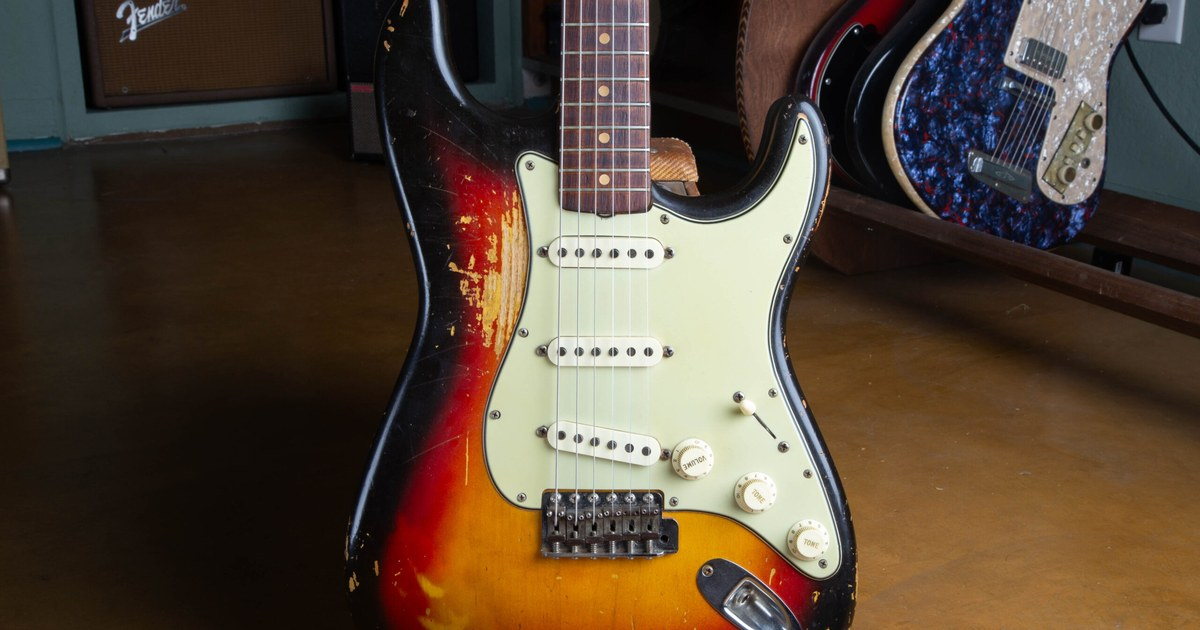
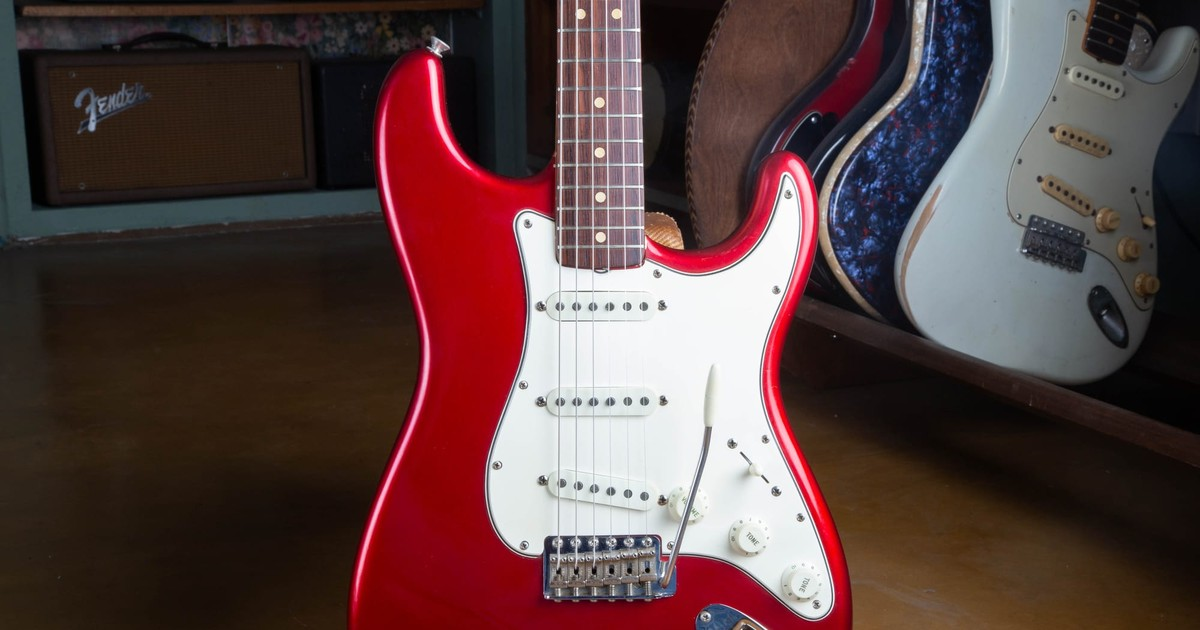
Swap companion photos to 1965 CAR Strat and 1966 LPB Jazzmaster

diff --git a/src/content/blog/what-a-serial-number-cant-tell-you.md b/src/content/blog/what-a-serial-number-cant-tell-you.md
@@ -1,14 +1,14 @@
 ---
 title: "What A Serial Number Can't Tell You: How A Dealer Actually Checks A Vintage Guitar"
 pubDate: "2026-08-26T12:00:00"
-modified: "2026-08-26T19:15:00"
-excerpt: "This Strat's L-series plate only gets you a window. The heel stamp and the pots close the year. None of that tells me whether the nitro is original. I check the guitar, then I treat the serial as a claim."
+modified: "2026-08-26T22:00:00"
+excerpt: "This 1965 Candy Apple Red Strat's serial only gets you a window. The silver under the red and the checking off the neck plate are the guitar. A 1966 Lake Placid Blue Jazzmaster shows the same gap on an offset. I check the film, then I treat the serial as a claim."
 category: "value-evaluation"
 categoryName: "Value & Evaluation"
 tags: []
-heroImage: "/images/blog/what-a-serial-number-cant-tell-you/1963-fender-stratocaster-sunburst-front.jpg"
-heroImageAlt: "1963 Fender Stratocaster in sunburst, with player wear through the finish on the horns and edges."
-metaDescription: "A serial dates the claim on a vintage guitar. Heel stamps, pot codes, solder, and wear have to agree. Here's the bench check I run, plus a free photo appraisal."
+heroImage: "/images/blog/what-a-serial-number-cant-tell-you/1965-fender-stratocaster-candy-apple-red-front.jpg"
+heroImageAlt: "1965 Fender Stratocaster in Candy Apple Red Metallic with a white three-ply pickguard, standing in a shop in front of a blackface Fender amp and other vintage Fenders."
+metaDescription: "A Fender serial dates the claim, not the nitro. On this 1965 Candy Apple Red Strat the silver undercoat and pocket do the work. Plus a free photo appraisal."
 ogImage: "/images/blog/what-a-serial-number-cant-tell-you/what-a-serial-number-cant-tell-you-og.jpg"
 author: "Joe Dampt"
 draft: false
@@ -29,7 +29,7 @@ toc:
 ---
 <style>.blog-prose figure p{margin:0}</style>
 
-This Strat wears L17163 on the neck plate. That L only gets you late 1962 into early 1965. The heel is stamped 2 NOV 63 B, and the Stackpole pots are 6347, week 47 of 1963. I called it a '63 from those two, not from the plate. The serial still doesn't tell me whether the nitro on those horns is the nitro that left Fullerton. The longer argument is in my [Vintage Verified essay](https://www.vintageverified.com/joes-vintage).
+This Strat is Candy Apple Red, a 1965. A Fender serial from that stretch only gets you a range (late L-series into the early F plates, VG-0050). I don't have this guitar's plate, heel stamp, or pot codes on this page. What I do have is the film: chips on the horn break to silver, checking runs off the neck plate, and the pocket still shows the paint-stick yellow. That is the guitar. The serial, when you have it, is a claim those facts have to survive. The longer argument is in my [Vintage Verified essay](https://www.vintageverified.com/joes-vintage).
 
 <nav class="post-toc-inline" aria-label="Table of contents">
 
@@ -47,13 +47,13 @@ This Strat wears L17163 on the neck plate. That L only gets you late 1962 into e
 
 A serial number is a factory tracking mark. On a good day it points at a year range.
 
-This Strat's plate is the Fender version of that. Before the mid-1970s, Fender mixed stockpiled parts, so the number only narrows the window. The heel stamp and the pot codes are tighter, and even those date the part. I wrote the lookup in the [Fender serial number guide](/fender-guitars-serial-number-guide/).
+Before the mid-1970s, Fender mixed stockpiled parts, so the number only narrows the window. Heel stamps and pot codes date the part. I wrote the lookup in the [Fender serial number guide](/fender-guitars-serial-number-guide/).
 
 <figure>
 
-![L-series neck plate serial L17163 on a 1963 Fender Stratocaster](../../assets/blog/what-a-serial-number-cant-tell-you/1963-fender-stratocaster-neck-plate.jpg)
+![Extreme close-up of Candy Apple Red finish beside the neck plate of a 1965 Fender Stratocaster, showing fine vertical lacquer checking.](../../assets/blog/what-a-serial-number-cant-tell-you/1965-fender-stratocaster-candy-apple-red-checking.jpg)
 
-<figcaption>L17163 on this Strat's four-bolt plate. The L prefix runs late 1962 into early 1965. I needed the heel and the pots to call it 1963.</figcaption>
+<figcaption>Checking running off the neck plate on this 1965 Candy Apple Red Strat. The plate is a tracking mark. The film is what I trust.</figcaption>
 
 </figure>
 
@@ -79,7 +79,7 @@ Listings use "all original" like a switch. On a guitar that's been played sixty 
 
 **Untouched electronics.** The solder, the cloth or braid, the pots, and the pickup leads still sitting where a factory iron left them. A pickup can be swapped in half an hour. The trip leaves tracks at the pots, the switch, and the cavity.
 
-This Strat can be original nitro with later tuners. It can be original pickups with a refin. Write what it actually is. Don't flatten that into "all original" because L17163 decoded.
+This Strat can be original nitro with later tuners. It can be original pickups with a refin. On this Candy Apple Red Strat I can show the silver under the red and a factory-looking pocket. Write what it actually is. Don't flatten that into "all original" because a 1965 serial decoded.
 
 The original hard-shell case (OHSC in listings) is a nice extra. I've seen original cases on refinished guitars.
 
@@ -89,29 +89,51 @@ This is the order I run when a guitar is in front of me. Eyes first, screwdriver
 
 <h3 id="finish-and-wear">Finish And Wear</h3>
 
-I look at the film before I trust the number. Nitrocellulose was the standard on most vintage Fender and Gibson electrics in the 1950s and 1960s. It checks as it ages. On this Strat the wear is on the horns and the edges, where an arm and a belt actually land. Wear that's even all the way around, or copied onto edges that never see a shirt, is a question.
+I look at the film before I trust the number. Nitrocellulose was the standard on most vintage Fender and Gibson electrics in the 1950s and 1960s. It checks as it ages. On this 1965 Candy Apple Red Strat the wear is at the horn chip and in the checking that runs off the neck plate.
+
+Candy Apple Red from 1963 into 1965 sat on a metallic silver base, typically Inca Silver, under translucent red. Chips on this 1965 break to bright silver. After the 1965 CBS transition through 1973 the base shifts to gold. This guitar is a 1965 and chips to silver, which matches the silver-base recipe that ran 1963 into 1965.
+
+<figure>
+
+![Close-up of chips on the back of the upper horn of a 1965 Fender Stratocaster in Candy Apple Red, with small chips in the red revealing a bright silver metallic undercoat beneath.](../../assets/blog/what-a-serial-number-cant-tell-you/1965-fender-stratocaster-candy-apple-red-chip-silver-undercoat.jpg)
+
+<figcaption>Chips on the horn of this 1965 Candy Apple Red Strat break to bright silver, the silver-base recipe that ran 1963 into 1965.</figcaption>
+
+</figure>
+
+Lake Placid Blue was a 1958 Cadillac color, on the Fender chart from 1960 to 1973. The full color chart and factory tells live on the [custom color guide](/post/fender-custom-color-authentication-guide/).
+
+<figure>
+
+![Front of a 1966 Fender Jazzmaster in Lake Placid Blue with a white pickguard, photographed in a vintage guitar shop with a blue sparkle guitar visible behind it.](../../assets/blog/what-a-serial-number-cant-tell-you/1966-fender-jazzmaster-lake-placid-blue-front.jpg)
+
+<figcaption>A 1966 Jazzmaster in Lake Placid Blue with a white pickguard.</figcaption>
+
+</figure>
+
+White undercoat sat under most sixties custom colors.
+
+<figure>
+
+![Extreme close-up of a pickguard screw hole on a 1966 Fender Jazzmaster in Lake Placid Blue next to a bridge post thimble, with the chipped edge of the screw hole revealing a bright white undercoat beneath the blue.](../../assets/blog/what-a-serial-number-cant-tell-you/1966-fender-jazzmaster-lake-placid-blue-pickguard-screw-hole-chip-white-undercoat.jpg)
+
+<figcaption>A pickguard screw hole on this 1966 Lake Placid Blue Jazzmaster. The chipped rim breaks to white, the standard undercoat under sixties Lake Placid Blue.</figcaption>
+
+</figure>
 
 Relic'ing is the intentional aging of a new guitar: worn finish, lacquer checking, tarnished hardware, dents. A relic is distressed on purpose. A convincing one still has to survive pot codes, neck dates, and cavity paint.
 
 Under UV blacklight, aged original nitro usually glows greenish or yellowish, so touch-ups and overspray can show as dark or contrasting patches. I use it as a screen. The downside is real: old refinishes can hide, poly and a lot of later paints glow inconsistently, and fresh nitro hasn't aged enough to glow yet. I wouldn't call a finish original from a blacklight photo alone.
 
-On a Fender custom color, the factory tells (nail holes, paint-stick shadow, Fullerplast, the blacklight procedure) live on the [custom color authentication guide](/post/fender-custom-color-authentication-guide/). If the money is in the color, read that guide, then send photos.
+If the money is in the color, read the custom color guide, then send photos.
 
 <h3 id="hardware-footprints-and-extra-holes">Hardware Footprints And Extra Holes</h3>
 
 Hardware leaves a footprint. Extra screw holes around the tuners, a neck plate that doesn't sit in old lacquer witness lines, a bridge post that's been opened up, a pickguard with a later screw pattern: those are records of work.
 
-On a 1962 Gibson ES-335 I appraised in person, I checked that the single-line, double-ring Kluson tuners were original, with no added or enlarged holes. I don't have a clean extra-hole photo for this page, so you're looking at a pass on this Strat instead.
+On a 1962 Gibson ES-335 I appraised in person, I checked that the single-line, double-ring Kluson tuners were original, with no added or enlarged holes. I don't have a clean extra-hole photo for this page, so that check is copy only.
 
-<figure>
-
-![Single-line Kluson Deluxe tuners on the back of a 1963 Fender Stratocaster headstock](../../assets/blog/what-a-serial-number-cant-tell-you/1963-fender-stratocaster-back-of-headstock.jpg)
-
-<figcaption>Single-line Kluson Deluxe tuners on this 1963 Strat, in the original holes. Extra holes behind modern tuners usually mean someone converted from Klusons, or converted back.</figcaption>
-
-</figure>
-
-I'd still open the cavity before I called the guitar original. Period tuners are period tuners.
+Tuners come off with four screws. A period stamp dates the tuners. It only helps when it agrees with the headstock, the finish, the pots, and the serial. I'd still open the cavity before I called the guitar original. Period tuners are period tuners.
 
 <h3 id="cavities-routes-and-pot-codes">Cavities, Routes, And Pot Codes</h3>
 
@@ -123,17 +145,19 @@ A pot date tells you the earliest the guitar could have been built. Factories bo
 
 <figure>
 
-![Control cavity of a 1963 Fender Stratocaster with pickguard flipped, cloth wire, and three pots](../../assets/blog/what-a-serial-number-cant-tell-you/1963-fender-stratocaster-electronics.jpg)
+![Top of a 1965 Fender Stratocaster body in Candy Apple Red with the pickguard removed and the loaded guard folded to the side, showing full red coverage in the pickguard footprint, dusty overspray in the pickup routes, and yellow showing through in the neck pocket.](../../assets/blog/what-a-serial-number-cant-tell-you/1965-fender-stratocaster-candy-apple-red-under-pickguard.jpg)
 
-<figcaption>Pickguard flipped on this 1963 Strat. Cloth wire, three 250k pots, and the codes on the back of the cans.</figcaption>
+<figcaption>Guard off this 1965 Candy Apple Red Strat. Color coats cover the face, get thin and dusty in the routes, and the neck pocket goes yellow where the paint stick sat.</figcaption>
 
 </figure>
 
+I have the cavity in the photo. I don't have a readable EIA stamp from this guitar on this page.
+
 <figure>
 
-![Stackpole 304 6347 pot code on a 1963 Fender Stratocaster](../../assets/blog/what-a-serial-number-cant-tell-you/1963-fender-stratocaster-potentiometer-code.jpg)
+![Close-up of the neck pocket area of a 1965 Fender Stratocaster in Candy Apple Red, showing the yellow-sealed pocket floor with red overspray feathering across it and heavy dust and shadow at the pocket edge.](../../assets/blog/what-a-serial-number-cant-tell-you/1965-fender-stratocaster-candy-apple-red-neck-pocket-shadow.jpg)
 
-<figcaption>Stackpole code 304 6347 on this guitar. 304 is Stackpole. 6347 is 1963, week 47. That dates this pot. The heel stamp is how the year held.</figcaption>
+<figcaption>Neck pocket of the same 1965 Candy Apple Red Strat. Yellow-sealed floor, red overspray feathering across it, dust at the edge.</figcaption>
 
 </figure>
 
@@ -151,7 +175,15 @@ The joint in the photo is dull grey, with old amber flux crazed around it. That'
 
 </figure>
 
-On Fender, those joints are one of the checks I use when a custom color is on the table. On a 1966 Jaguar in Lake Placid Blue, I asked for electronics photos so I could read the solder next to the paint-stick mark in the neck pocket. The solder didn't close the guitar. It was one more check that the harness hadn't been pulled for a refin.
+On Fender, I read solder when a custom color is on the table so I know the harness wasn't pulled for a refin. On this 1966 Lake Placid Blue Jazzmaster, the pocket is the color check: paint-stick yellow stripe, JM in marker, original red-brown fiber shim. I don't have a solder close-up from this Jazzmaster on this page. The pocket is what I can show.
+
+<figure>
+
+![Neck pocket of a 1966 Fender Jazzmaster in Lake Placid Blue with the neck removed, showing a masked yellow stripe down the center of the pocket with JM written in black marker, blue overspray on either side, bubbly finish texture at the pocket edge, and a rust-red fiberboard factory shim at the end of the pocket.](../../assets/blog/what-a-serial-number-cant-tell-you/1966-fender-jazzmaster-lake-placid-blue-neck-pocket-shadow.jpg)
+
+<figcaption>Neck pocket of the 1966 Lake Placid Blue Jazzmaster. Paint-stick yellow down the center, JM in marker, blue overspray at the edges, original fiber shim at the end of the pocket.</figcaption>
+
+</figure>
 
 On a Gibson PAF-era guitar, factory cover solder is grey. Fresh solder anywhere in the signal path raises the burden of proof on the pickups. The [PAF and patent-number pickup guide](/post/gibson-paf-patent-number-pickup-guide/) is the spoke for that. Charlie from es-335.com has written for years that original solder got turned into a stand-in for "the pickups never came out," and that a carefully redone ground can be hard to call. I agree with the caution. ([Take Off A Buck](https://www.es-335.com/2015/10/26/take-off-a-buck/), es-335.com.)
 
@@ -171,17 +203,9 @@ A swapped pickup leaves tracks at the rings, the height screws, the cavity, and 
 
 <h3 id="cross-dating-every-date-has-to-agree">Cross-Dating: Every Date Has To Agree</h3>
 
-On this Strat the plate, the heel, and the pots agree on 1963. That's the job. If they'd disagreed, I wouldn't average them. I'd ask which part moved.
-
 On a Fender, the [neck date](/fender-neck-dates/) is a production mark on the heel of the bolt-on neck, under the truss-rod nut. Fender marked them from the earliest solidbodies until about 1976, penciled until March 1962. The neck date dates the neck. It can differ from the body date by weeks or months on a perfectly original guitar, because Fender pulled finished necks from a bin. A neck dated well after the rest of the guitar is the usual red flag for a swap. A neck a year older than the body is often leftover stock.
 
-<figure>
-
-![Black ink neck heel stamp 2NOV63 B on a 1963 Fender Stratocaster](../../assets/blog/what-a-serial-number-cant-tell-you/1963-fender-stratocaster-neck-heel-stamp.jpg)
-
-<figcaption>Heel stamp 2 NOV 63 B on the same Strat as the L-series plate and the Stackpole pots. The 2 is Stratocaster. NOV 63 is the neck. B is the nut width.</figcaption>
-
-</figure>
+From spring 1962 onward a Jazzmaster heel is a rubber stamp like 4JAN63B, where 4 is the Jazzmaster model code. I don't have the heel of this Candy Apple Red Strat or this Jazzmaster on this page. On the Jazzmaster, the body side of that match is the pocket already shown.
 
 On a Gibson from 1961 to 1969, you already know the serial won't pin a single year. The pots, the pickup type, the tuner stamp (no-line, single-line, double-line), the logo, and the presence or absence of a volute have to close the range. I don't date any Gibson from the serial alone, in any era. Numbers get re-stamped, refinished over, or faked.
 
@@ -213,11 +237,11 @@ This is an estimate of market value, not an offer to buy and not a promise. Mark
 
 <h3 id="can-a-guitar-serial-number-be-faked">Can A Guitar Serial Number Be Faked?</h3>
 
-Yes. Numbers get re-stamped, and neck plates get swapped. This Strat's L17163 looks like a real L-series stamp. I believe the year because the heel and the pots agree with it. If the serial and the features disagree, trust the features and get a hands-on read before you pay vintage money.
+Yes. Numbers get re-stamped, and neck plates get swapped. I believe a year when the heel, the pots, and the film agree with the plate. This Candy Apple Red Strat is the film half of that job.
 
 <h3 id="if-the-serial-number-checks-out-is-the-guitar-original">If The Serial Number Checks Out, Is The Guitar Original?</h3>
 
-The serial on this Strat only gave me a window. Originality is finish, parts, solder, pots, pickups, and whether those dates agree. Fender serials before the mid-1970s and Gibson serials from 1961 to 1969 often can't even pin a single year. A clean decode is where I start.
+A serial that decodes is a tracking mark that survived. Originality is whether the film and the parts still belong to that year. I treat a clean plate as a claim to test.
 
 <h3 id="what-does-all-original-mean-on-a-vintage-guitar">What Does All Original Mean On A Vintage Guitar?</h3>
 
@@ -249,7 +273,7 @@ The joint in the photo on this page is dull grey, with old flux around it. Later
 
 <h3 id="what-if-the-pot-codes-do-not-match-the-serial">What If The Pot Codes Do Not Match The Serial?</h3>
 
-A pot code dates the pot. It's the earliest the guitar could have been built, not the build day. This Strat's 6347 agrees with the NOV 63 heel. Pots a few months older than the serial are normal. One pot years later than the others usually means a replacement. If the latest original pot is newer than the year the serial claims, the serial claim is wrong or the pot isn't original. Read all of them.
+A pot code dates the pot. It's the earliest the guitar could have been built, not the build day. Pots a few months older than the serial are normal. One pot years later than the others usually means a replacement. I don't have a readable EIA stamp from this Candy Apple Red Strat on this page. Read every can you can see.
 
 <h3 id="what-if-the-neck-date-and-the-body-date-do-not-match">What If The Neck Date And The Body Date Do Not Match?</h3>
 
@@ -261,7 +285,7 @@ A certificate is paperwork. It's only as strong as the inspection behind it and 
 
 <h2 id="send-me-photos-and-i-will-read-the-guitar">Send Me Photos And I Will Read The Guitar</h2>
 
-If you want the short version on your guitar, send photos. Front, back, headstock, and anything inside you can shoot without forcing screws: pots, solder, neck heel if the neck is already off. I'll date it, tell you what the parts are doing, and give you a current market read. Use the [free appraisal form](/free-appraisal/), or text me at (602) 900-6635.
+If you want the short version on your guitar, send photos. Front, back, headstock, and anything inside you can shoot without forcing screws: pots, solder, neck heel if the neck is already off. I'll date it, say what the parts are doing, and give you a current market read. Use the [free appraisal form](/free-appraisal/), or text me at (602) 900-6635.
 
 I'm Joe Dampt. I buy, sell, and appraise vintage instruments in Mesa, Arizona. I've been doing this full-time for more than twelve years. The serial guide is where the year starts. This page is what I do after that. If you want the market argument for third-party lab work, that's the [Vintage Verified essay](https://www.vintageverified.com/joes-vintage). If you want me to look at the guitar in the case, that's the appraisal form.
 
@@ -285,7 +309,7 @@ Who I am and how I work is on the [about page](/about-me/).
       "name": "Can A Guitar Serial Number Be Faked?",
       "acceptedAnswer": {
         "@type": "Answer",
-        "text": "Yes. Numbers get re-stamped, and neck plates get swapped. This Strat's L17163 looks like a real L-series stamp. I believe the year because the heel and the pots agree with it. If the serial and the features disagree, trust the features and get a hands-on read before you pay vintage money."
+        "text": "Yes. Numbers get re-stamped, and neck plates get swapped. I believe a year when the heel, the pots, and the film agree with the plate. This Candy Apple Red Strat is the film half of that job."
       }
     },
     {
@@ -293,7 +317,7 @@ Who I am and how I work is on the [about page](/about-me/).
       "name": "If The Serial Number Checks Out, Is The Guitar Original?",
       "acceptedAnswer": {
         "@type": "Answer",
-        "text": "The serial on this Strat only gave me a window. Originality is finish, parts, solder, pots, pickups, and whether those dates agree. Fender serials before the mid-1970s and Gibson serials from 1961 to 1969 often can't even pin a single year. A clean decode is where I start."
+        "text": "A serial that decodes is a tracking mark that survived. Originality is whether the film and the parts still belong to that year. I treat a clean plate as a claim to test."
       }
     },
     {
@@ -357,7 +381,7 @@ Who I am and how I work is on the [about page](/about-me/).
       "name": "What If The Pot Codes Do Not Match The Serial?",
       "acceptedAnswer": {
         "@type": "Answer",
-        "text": "A pot code dates the pot. It's the earliest the guitar could have been built, not the build day. This Strat's 6347 agrees with the NOV 63 heel. Pots a few months older than the serial are normal. One pot years later than the others usually means a replacement. If the latest original pot is newer than the year the serial claims, the serial claim is wrong or the pot isn't original. Read all of them."
+        "text": "A pot code dates the pot. It's the earliest the guitar could have been built, not the build day. Pots a few months older than the serial are normal. One pot years later than the others usually means a replacement. I don't have a readable EIA stamp from this Candy Apple Red Strat on this page. Read every can you can see."
       }
     },
     {
@@ -408,7 +432,15 @@ Who I am and how I work is on the [about page](/about-me/).
 | A pot code is the earliest the guitar could have been built, not the build date. Fender 1966 stockpile example. | VG-0100 | Vintage Guitar and Bass; guitarhq.com | GLOBAL | true | false | 2026-06-21 | OK |
 | Pot codes are terminus post quem; parts stockpiled or later replaced. | VG-0048 | EIA source-date practice | GLOBAL | true | false | 2026-06-21 | OK |
 | To resolve an ambiguous Gibson year, read pot codes; pots slightly older than the build, not years older. | VG-0009 | Still Kickin Music; Vintage Guitar and Bass | GLOBAL | true | false | 2026-06-21 | OK |
-| Untouched Fender solder as a finish/harness check on a 1966 Jaguar. | LIVE-PAGE | https://www.joesvintageguitarsaz.com/free-appraisal/ | GLOBAL | true | n/a | live | OK |
+| 1965 CAR Strat chips to silver metallic undercoat (1963-1965 silver-base recipe). | LIVE-PAGE | https://www.joesvintageguitarsaz.com/post/fender-custom-color-authentication-guide/ | GLOBAL | true | n/a | live | OK |
+| 1966 LPB Jazzmaster pickguard screw hole chips to white undercoat. | LIVE-PAGE | https://www.joesvintageguitarsaz.com/post/fender-custom-color-authentication-guide/ | GLOBAL | true | n/a | live | OK |
+| 1966 LPB Jazzmaster neck pocket: paint-stick stripe, JM marker, fiber shim. | LIVE-PAGE | https://www.joesvintageguitarsaz.com/post/fender-custom-color-authentication-guide/ | GLOBAL | true | n/a | live | OK |
+| 1965 CAR under pickguard: full red on the face, thin/dusty in routes, yellow pocket. | LIVE-PAGE | https://www.joesvintageguitarsaz.com/post/fender-custom-color-authentication-guide/ | GLOBAL | true | n/a | live | OK |
+| 1965 CAR neck pocket: yellow-sealed floor, red overspray feathering, dust at the edge. | LIVE-PAGE | https://www.joesvintageguitarsaz.com/post/fender-custom-color-authentication-guide/ | GLOBAL | true | n/a | live | OK |
+| Checking on this 1965 CAR Strat runs off the neck plate. | LIVE-PAGE | https://www.joesvintageguitarsaz.com/post/fender-custom-color-authentication-guide/ | GLOBAL | true | n/a | live | OK |
+| Lake Placid Blue was a 1958 Cadillac color, on the Fender chart 1960-1973. White undercoat under most sixties custom colors. | LIVE-PAGE | https://www.joesvintageguitarsaz.com/post/fender-custom-color-authentication-guide/ | GLOBAL | true | n/a | live | OK |
+| Candy Apple Red after the 1965 CBS transition through 1973 uses a gold metallic base. | LIVE-PAGE | https://www.joesvintageguitarsaz.com/post/fender-custom-color-authentication-guide/ | GLOBAL | true | n/a | live | OK |
+| Jazzmaster heel from spring 1962 onward is a rubber-stamped code like 4JAN63B (model, month, year, nut width). | LIVE-PAGE | https://www.joesvintageguitarsaz.com/post/fender-jazzmaster-evolution-guide-1958-1971/ | GLOBAL | true | n/a | live | OK |
 | PAF-era grey factory solder; fresh solder raises burden of proof. | LIVE-PAGE | https://www.joesvintageguitarsaz.com/post/gibson-paf-patent-number-pickup-guide/ | GLOBAL | true | n/a | live | OK |
 | PAF: Patent Applied For humbucker, fitted 1957, decal late 1957 until patent-number sticker around 1962. | VG-0003 | Wikipedia PAF; Guitar HQ | GLOBAL | true | false | 2026-06-21 | OK |
 | Fender neck date: heel mark, earliest solidbodies to about 1976, penciled until March 1962; dates the neck only; can differ from body by weeks or months. | VG-0051 | Fender neck-date practice | GLOBAL | true | false | 2026-06-21 | OK |
@@ -421,5 +453,4 @@ Who I am and how I work is on the [about page](/about-me/).
 | A refret is normal maintenance; removes strict all-original status. | VG-0110 | Premier Guitar Vintage Vault; Reverb FAQ | GLOBAL | true | false | 2026-06-21 | OK |
 | Joe Dampt, Mesa, more than twelve years full-time. | LIVE-PAGE | https://www.joesvintageguitarsaz.com/about-me/ | GLOBAL | true | n/a | live | OK |
 | I do most appraisals remotely from photos. | LIVE-PAGE | https://www.joesvintageguitarsaz.com/free-appraisal/ | GLOBAL | true | n/a | live | OK |
-| This Strat neck plate L17163; heel 2 NOV 63 B; Stackpole 304 6347 (1963 week 47). | LIVE-PAGE | 1963 Fender Stratocaster authentication guide on this site | GLOBAL | true | n/a | live | OK |
 -->
